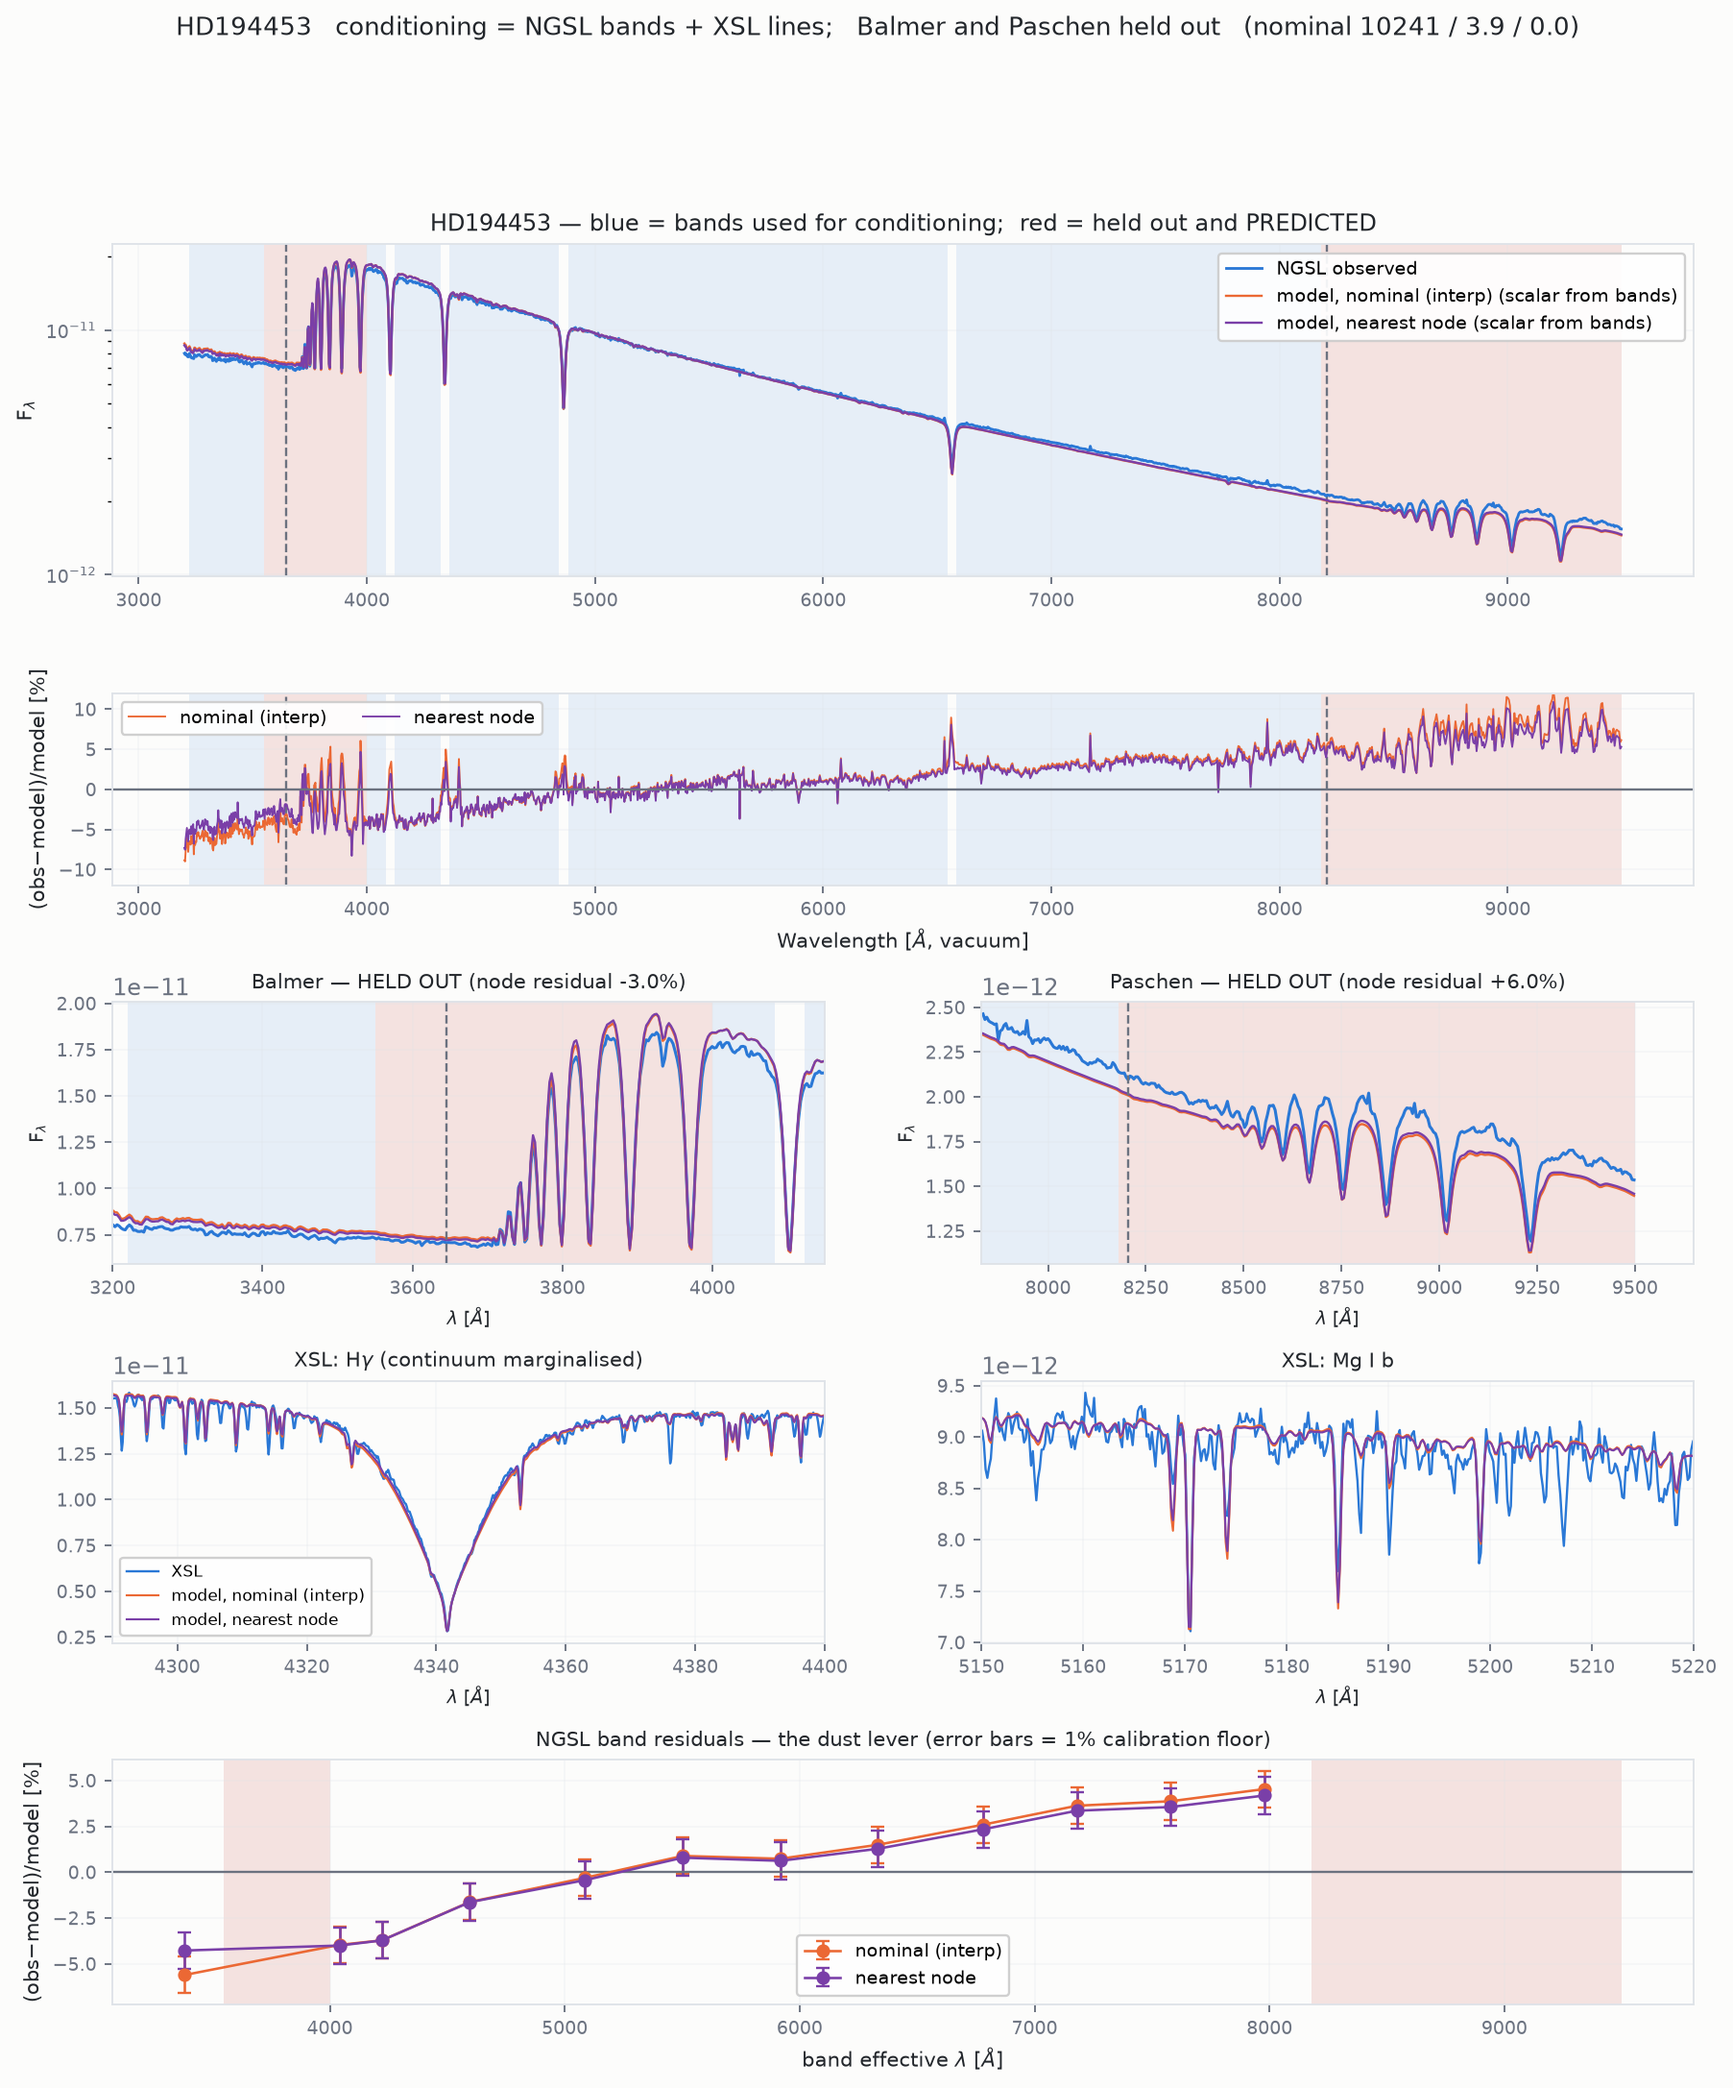
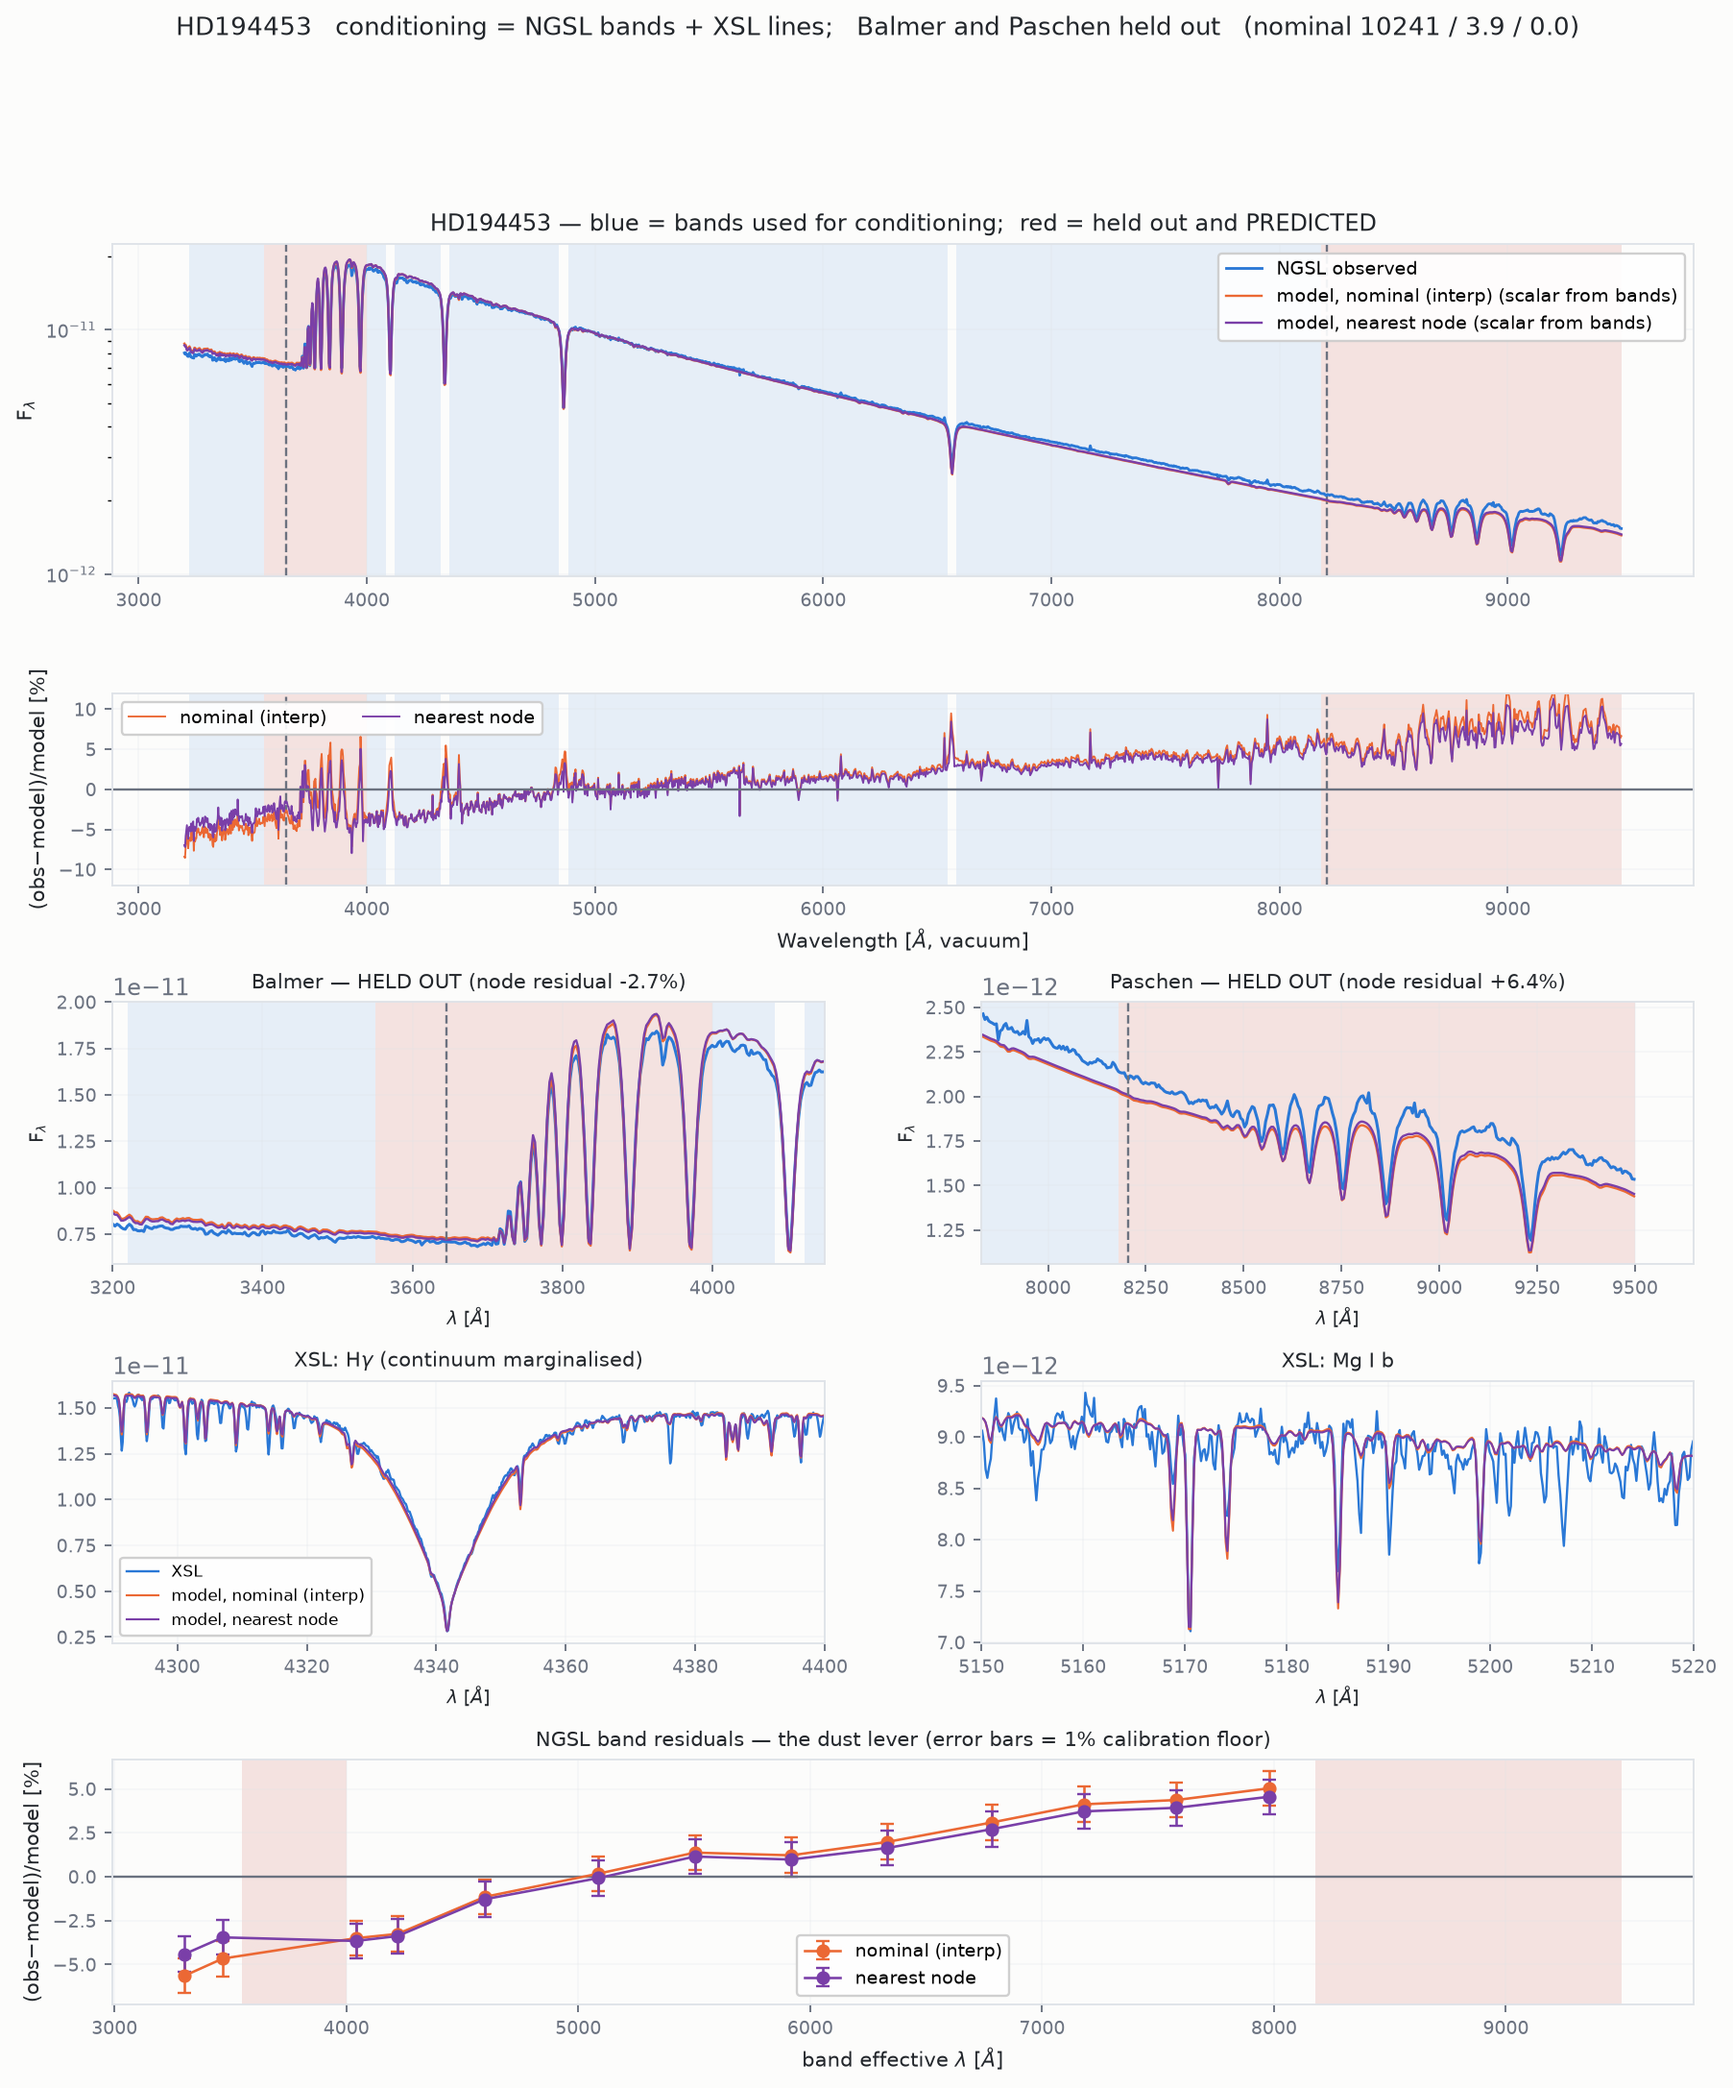
Split the sub-limit blue into two synthetic bands
3220-3550 A -- the Balmer continuum below the series limit -- now gets two
165 A bands instead of one 330 A band, via a separate blue_width applied
blueward of the break.

Worth being clear about what this buys, because it is not dust leverage:
the internal colour between the two blue bands is 0.0017 mag per 0.01 mag
of E(B-V), against 0.0328 mag for blue-against-8000 A. As a lever it adds
about 5%.

What it does buy is a SHAPE check on the one region that carries the dust
constraint. A single band there can only be high or low; two can disagree,
and if they did it would point at the near-UV specifically -- metal
blanketing, the extinction law's near-UV shape, or G430L calibration at
its blue edge -- rather than at reddening. On HD194453 they track each
other to ~0.5% across an E(B-V) sweep from 0 to 0.04 (-4.41/-3.45 at zero,
+0.32/+0.84 at 0.03), so the model's Balmer-continuum slope is reproduced
and the blue deficit is a level offset, not a shape error.

The E(B-V) minimum is unchanged and still sharp: chi2/N 9.23 -> 0.22 at
E(B-V) = 0.03 with 13 bands, against 8.45 -> 0.20 with 12.

diff --git a/fitting/observations.py b/fitting/observations.py
@@ -236,6 +236,7 @@ BREAK_WINDOW = (3550.0, 4000.0)
 NGSL_H_MASK_A = 20.0        # half-width dropped around every H line
 NGSL_BAND_WIDTH = 400.0     # long stretches are split into bands this wide
 NGSL_BAND_MIN = 80.0        # a band narrower than this is not worth carrying
+NGSL_BLUE_WIDTH = 165.0     # finer bands blueward of the break (see below)
 
 
 # Bands run from just inside the grid's blue edge to just BLUEWARD OF THE
@@ -258,11 +259,18 @@ PASCHEN_WINDOW = (8180.0, 9500.0)
 
 def ngsl_band_edges(h_mask=NGSL_H_MASK_A, break_window=None,
                     width=NGSL_BAND_WIDTH, min_width=NGSL_BAND_MIN,
-                    wrange=NGSL_BAND_RANGE):
+                    wrange=NGSL_BAND_RANGE, blue_width=NGSL_BLUE_WIDTH):
     """-> [(name, lo, hi)] bands covering `wrange` minus H lines and the break.
 
     Deterministic: the hydrogen line positions are analytic (Rydberg), so this
     needs no model spectrum and cannot drift with the grid.
+
+    Anything blueward of the break gets `blue_width` instead of `width`. That
+    stretch -- 3220-3550 A, the Balmer continuum below the series limit -- is
+    where the extinction curve is steepest and where the dust lever therefore
+    lives, so it is worth resolving as a SHAPE rather than collapsing to a
+    single point. One band there gives one colour against the red; two give an
+    internal colour across the steepest part of CCM89 as well.
     """
     from fitting.fit import hydrogen_lines
     if break_window is None:
@@ -288,7 +296,8 @@ def ngsl_band_edges(h_mask=NGSL_H_MASK_A, break_window=None,
     for lo, hi in free:
         if hi - lo < min_width:
             continue
-        n = max(1, int(round((hi - lo) / width)))
+        w = blue_width if hi <= break_window[0] else width
+        n = max(1, int(round((hi - lo) / w)))
         edges = np.linspace(lo, hi, n + 1)
         for a, b in zip(edges[:-1], edges[1:]):
             if b - a >= min_width:
